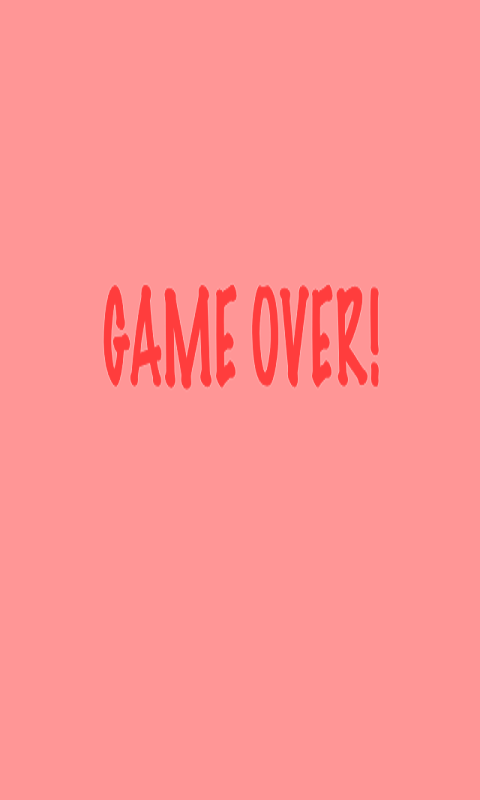
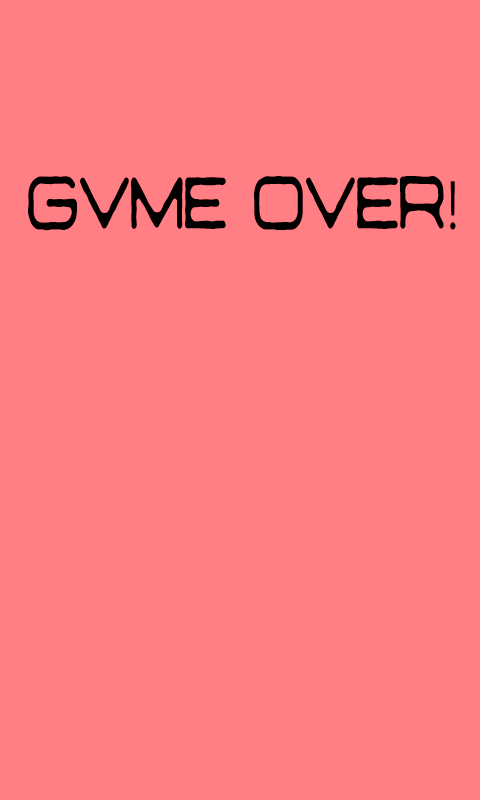
pygame 模块项目，《彩图版飞机大战》，第二天，从新提交

Changed region(s): [[0.1875, 0.3438, 0.8125, 0.5], [0.5312, 0.2188, 0.9688, 0.3125], [0.0625, 0.2188, 0.4688, 0.3125]]

diff --git a/foo/main.py b/foo/main.py
@@ -1,25 +1,22 @@
 # _*_ coding  ：  UTF-8 _*_
 # 开发团队    ：  dream
 # 开发人员    ：  刘育彬
-# 开发时间    ：  2020/1/24  11:08
+# 开发时间    ：  2020/1/25  14:59
 # 文件名称    ：  main.py
 # 开发工具    ：  PyCharm
 
 
-import pygame
-from pygame.locals import *
-from sys import exit
+import pygame             # 导入 pygame 库
+from pygame.locals import *               # 导入 pygame 库中的一些常量
+from sys import exit      # 导入 sys 库中的 exit 函数
 import random
-
-
-# 设置游戏屏幕大小
-screen_width = 480
-screen_height = 800
+import codecs
 
 
 # 子弹类
 class Bullet(pygame.sprite.Sprite):
     def __init__(self, bullet_img, init_pos):
+        # 调用父类的初始化方法初始化 sprite 的属性
         pygame.sprite.Sprite.__init__(self)
         self.image = bullet_img
         self.rect = self.image.get_rect()
@@ -32,17 +29,19 @@ class Bullet(pygame.sprite.Sprite):
 
 # 玩家飞机类
 class Player(pygame.sprite.Sprite):
-    def __init__(self, plane_img, player_rect, init_pos):
+    def __init__(self, player_rect, init_pos):
+        # 调用父类的初始化方法初始化 sprite 的属性
         pygame.sprite.Sprite.__init__(self)
-        self.image = []                     # 用来存储玩家飞机图片的列表
+        self.image = []            # 用来存储玩家飞机图片的列表
         for i in range(len(player_rect)):
-            self.image.append(plane_img.subsurface(player_rect[i]).convert_alpha())
-        self.rect = player_rect[0]          # 初始化图片所在的矩形
-        self.rect.topleft = init_pos        # 初始化矩形的左上角坐标
-        self.speed = 2                      # 初始化玩家飞机速度，这里是一个确定的值
-        self.bullets = pygame.sprite.Group()          # 玩家飞机所发射的子弹的集合
-        self.img_index = 0                  # 玩家飞机图片索引
-        self.is_hit = False                 # 玩家是否被击中
+            self.image.append(player_rect[i].convert_alpha())
+
+        self.rect = player_rect[0].get_rect()            # 初始化图片所在的矩形
+        self.rect.topleft = init_pos                     # 初始化矩形的左上角坐标
+        self.speed = 8                                   # 初始化玩家飞机速度，这里是一个固定的值
+        self.bullets = pygame.sprite.Group()               # 玩家飞机所发射的子弹的集合
+        self.img_index = 0                               # 玩家飞机图片索引
+        self.is_hit = False                              # 玩家是否被击中
 
     # 发射子弹
     def shoot(self, bullet_img):
@@ -81,9 +80,10 @@ class Player(pygame.sprite.Sprite):
 # 敌机类
 class Enemy(pygame.sprite.Sprite):
     def __init__(self, enemy_img, enemy_down_imgs, init_pos):
+        # 调用父类的初始化方法初始化 sprite 的属性
         pygame.sprite.Sprite.__init__(self)
         self.image = enemy_img
-        self.rect = self.image.get_rect
+        self.rect = self.image.get_rect()
         self.rect.topleft = init_pos
         self.down_imgs = enemy_down_imgs
         self.speed = 2
@@ -94,85 +94,109 @@ class Enemy(pygame.sprite.Sprite):
         self.rect.top += self.speed
 
 
-# 初始化pygame
+# 设置游戏屏幕大小
+screen_width = 480
+screen_height = 800
+
+# 初始化 pygame
 pygame.init()
-# 设置游戏界面大小、背景图片及标题
-# 游戏界面像素大小
-screen = pygame.display.set_mode((screen_width, screen_height))
+# 设置游戏界面大小
+screen = pygame.display.set_mode((screen_width, screen_height))                # surface 对象，初始化一个准备显示的界面
 # 游戏界面标题
-pygame.display.set_caption('飞机大战')
-# 图标
-ic_launcher = pygame.image.load('image/ic_launcher.png').convert_alpha()
+pygame.display.set_caption('彩图版飞机大战')
+# 设置游戏界面图标
+ic_launcher = pygame.image.load('image/ic_launcher.png').convert_alpha()       # surface 对象
 pygame.display.set_icon(ic_launcher)
 # 背景图
-background = pygame.image.load('image/background.png').convert()
-# Game Over 背景图
+background = pygame.image.load('image/background.png').convert_alpha()         # surface 对象
+# 游戏结束背景图片
 game_over = pygame.image.load('image/gameover.png')
-# 飞机及子弹图片集合
-plane_img = pygame.image.load('image/shoot.png')
+# 子弹图片
+plane_bullet = pygame.image.load('image/bullet.png')
+# 飞机图片
+player_img1 = pygame.image.load('image/player1.png')
+player_img2 = pygame.image.load('image/player2.png')
+player_img3 = pygame.image.load('image/player_off1.png')
+player_img4 = pygame.image.load('image/player_off2.png')
+player_img5 = pygame.image.load('image/player_off3.png')
+# 敌机图片
+enemy_img1 = pygame.image.load('image/enemy1.png')
+enemy_img2 = pygame.image.load('image/enemy2.png')
+enemy_img3 = pygame.image.load('image/enemy3.png')
+enemy_img4 = pygame.image.load('image/enemy4.png')
 
 
 def start_game():
+    # 游戏循环帧频设置
+    clock = pygame.time.Clock()               # pygame.time     管理时间和帧信息
     # 设置玩家飞机不同状态的图片列表，多张图片展示为动画效果
     player_rect = []
     # 玩家飞机图片
-    player_rect.append(pygame.Rect(0, 99, 100, 120))
-    player_rect.append(pygame.Rect(165, 360, 102, 126))
+    player_rect.append(player_img1)
+    player_rect.append(player_img2)
     # 玩家爆炸图片
-    player_rect.append(pygame.Rect(165, 234, 102, 126))
-    player_rect.append(pygame.Rect(330, 498, 102, 126))
-    player_rect.append(pygame.Rect(330, 498, 102, 126))
-    player_rect.append(pygame.Rect(432, 624, 102, 126))
+    player_rect.append(player_img2)
+    player_rect.append(player_img3)
+    player_rect.append(player_img4)
+    player_rect.append(player_img5)
     player_pos = [200, 600]
-    player = Player(plane_img, player_rect, player_pos)
+    # 初始化玩家飞机
+    player = Player(player_rect, player_pos)
     # 子弹图片
-    bullet_rect = pygame.Rect(1005, 987, 10, 21)
-    bullet_img = plane_img.subsurface(bullet_rect)
+    bullet_img = plane_bullet
+    # 敌机不同状态的图片列表，多张图片展示为动画效果
+    enemy1_img = enemy_img1
+    enemy1_rect = enemy1_img.get_rect()
+    enemy1_down_imgs = []
+    enemy1_down_imgs.append(enemy_img1)
+    enemy1_down_imgs.append(enemy_img2)
+    enemy1_down_imgs.append(enemy_img3)
+    enemy1_down_imgs.append(enemy_img4)
+    # 储存敌机
+    enemies1 = pygame.sprite.Group()
+    # 存储被击毁的飞机，用来渲染击毁动画
+    enemies_down = pygame.sprite.Group()
     # 初始化射击及敌机移动频率
     shoot_frequency = 0
+    enemy_frequency = 0
+    # 玩家飞机被击中后的效果处理
+    player_down_index = 16
+    # 初始化分数
+    score = 0
 
-    # 判断游戏循环推出的参数
+    # 判断游戏循环退出的参数
     running = True
     # 游戏主循环
     while running:
-        # 绘制背景
-        screen.fill(0)
-        screen.blit(background, (0, 0))
-        # 子弹
+        # 生成子弹，需要控制发射频率
+        # 首先判断玩家飞机没有被击中
         if not player.is_hit:
             if shoot_frequency % 15 == 0:
-                player.shoot(bullet_img)
                 player.shoot(bullet_img)
             shoot_frequency += 1
             if shoot_frequency >= 15:
                 shoot_frequency = 0
         for bullet in player.bullets:
+            # 以固定速度移动子弹
             bullet.move()
+            # 移动出屏幕后删除子弹
             if bullet.rect.bottom < 0:
                 player.bullets.remove(bullet)
+        # 显示子弹
         player.bullets.draw(screen)
-        # 判断玩家飞机
-        if not player.is_hit:
-            screen.blit(player.image[player.img_index], player.rect)
-            player.img_index = shoot_frequency // 8
+
+        # 绘制背景
+        screen.fill(0)                 # 使用颜色填充 surface
+        screen.blit(background, (0, 0))
+        # 控制游戏最大帧频为 60
+        clock.tick(60)
         # 更新屏幕
         pygame.display.update()
-        # 处理游戏退出
+        # 退出游戏
         for event in pygame.event.get():
             if event.type == pygame.QUIT:
                 pygame.quit()
                 exit()
-        # 获取键盘事件（上下左右按键）
-        key_pressed = pygame.key.get_pressed()
-        # 处理键盘事件（移动飞机的位置）
-        if key_pressed[K_w] or key_pressed[K_UP]:
-            player.move_up()
-        if key_pressed[K_s] or key_pressed[K_DOWN]:
-            player.move_down()
-        if key_pressed[K_a] or key_pressed[K_LEFT]:
-            player.move_left()
-        if key_pressed[K_d] or key_pressed[K_RIGHT]:
-            player.move_right()
+
 
 start_game()
-
